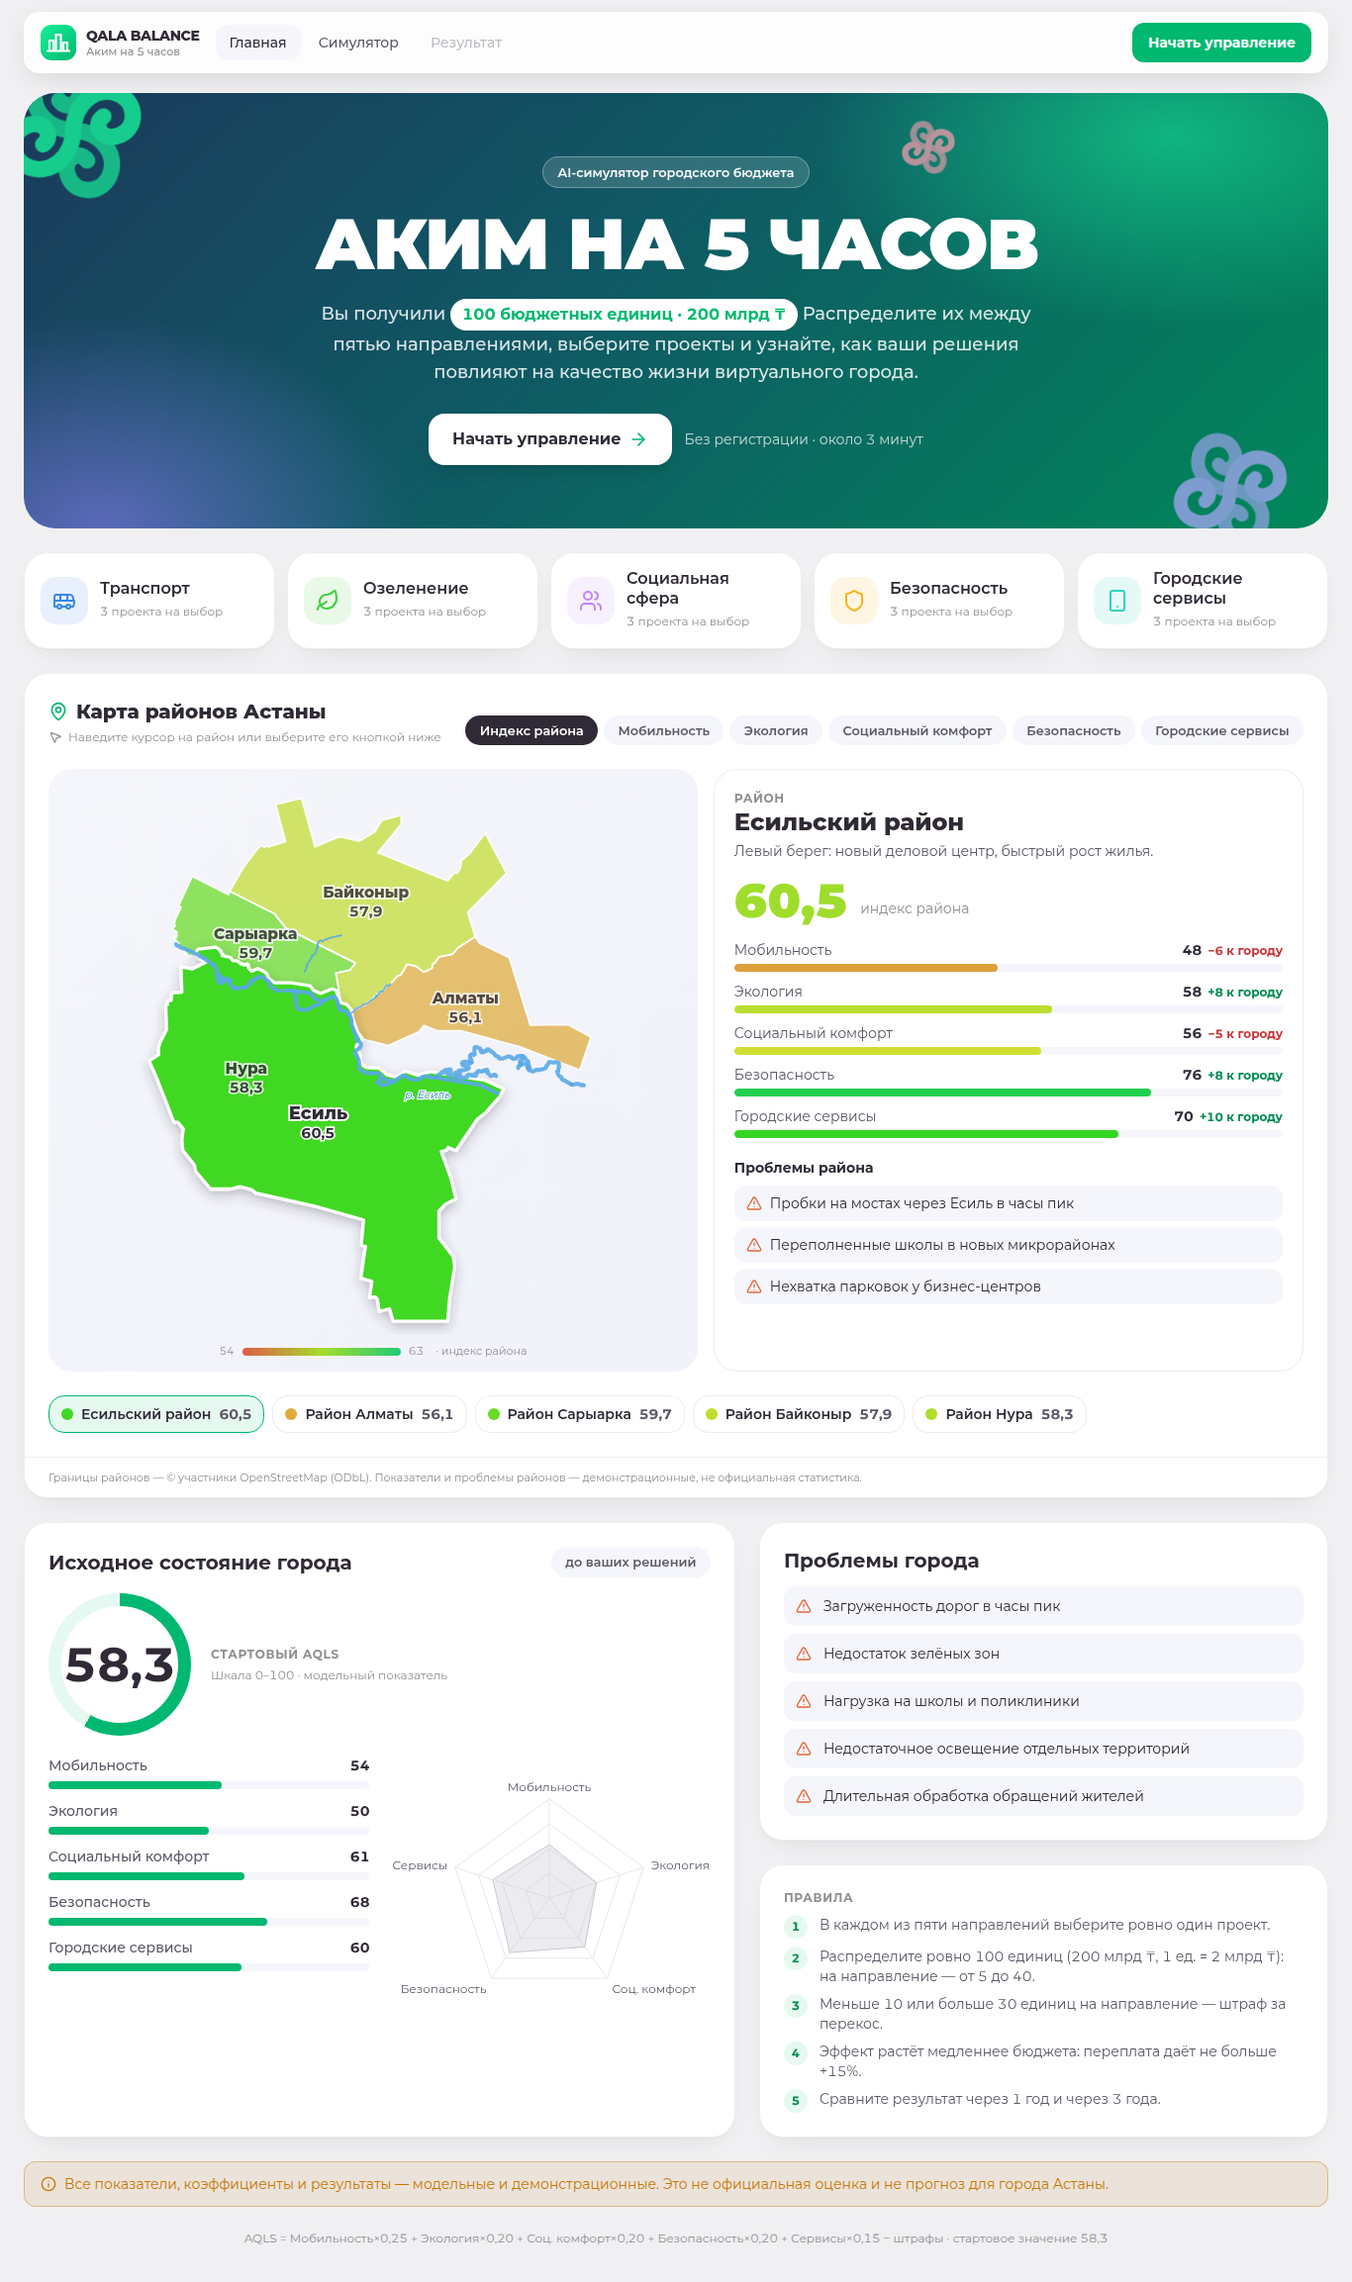
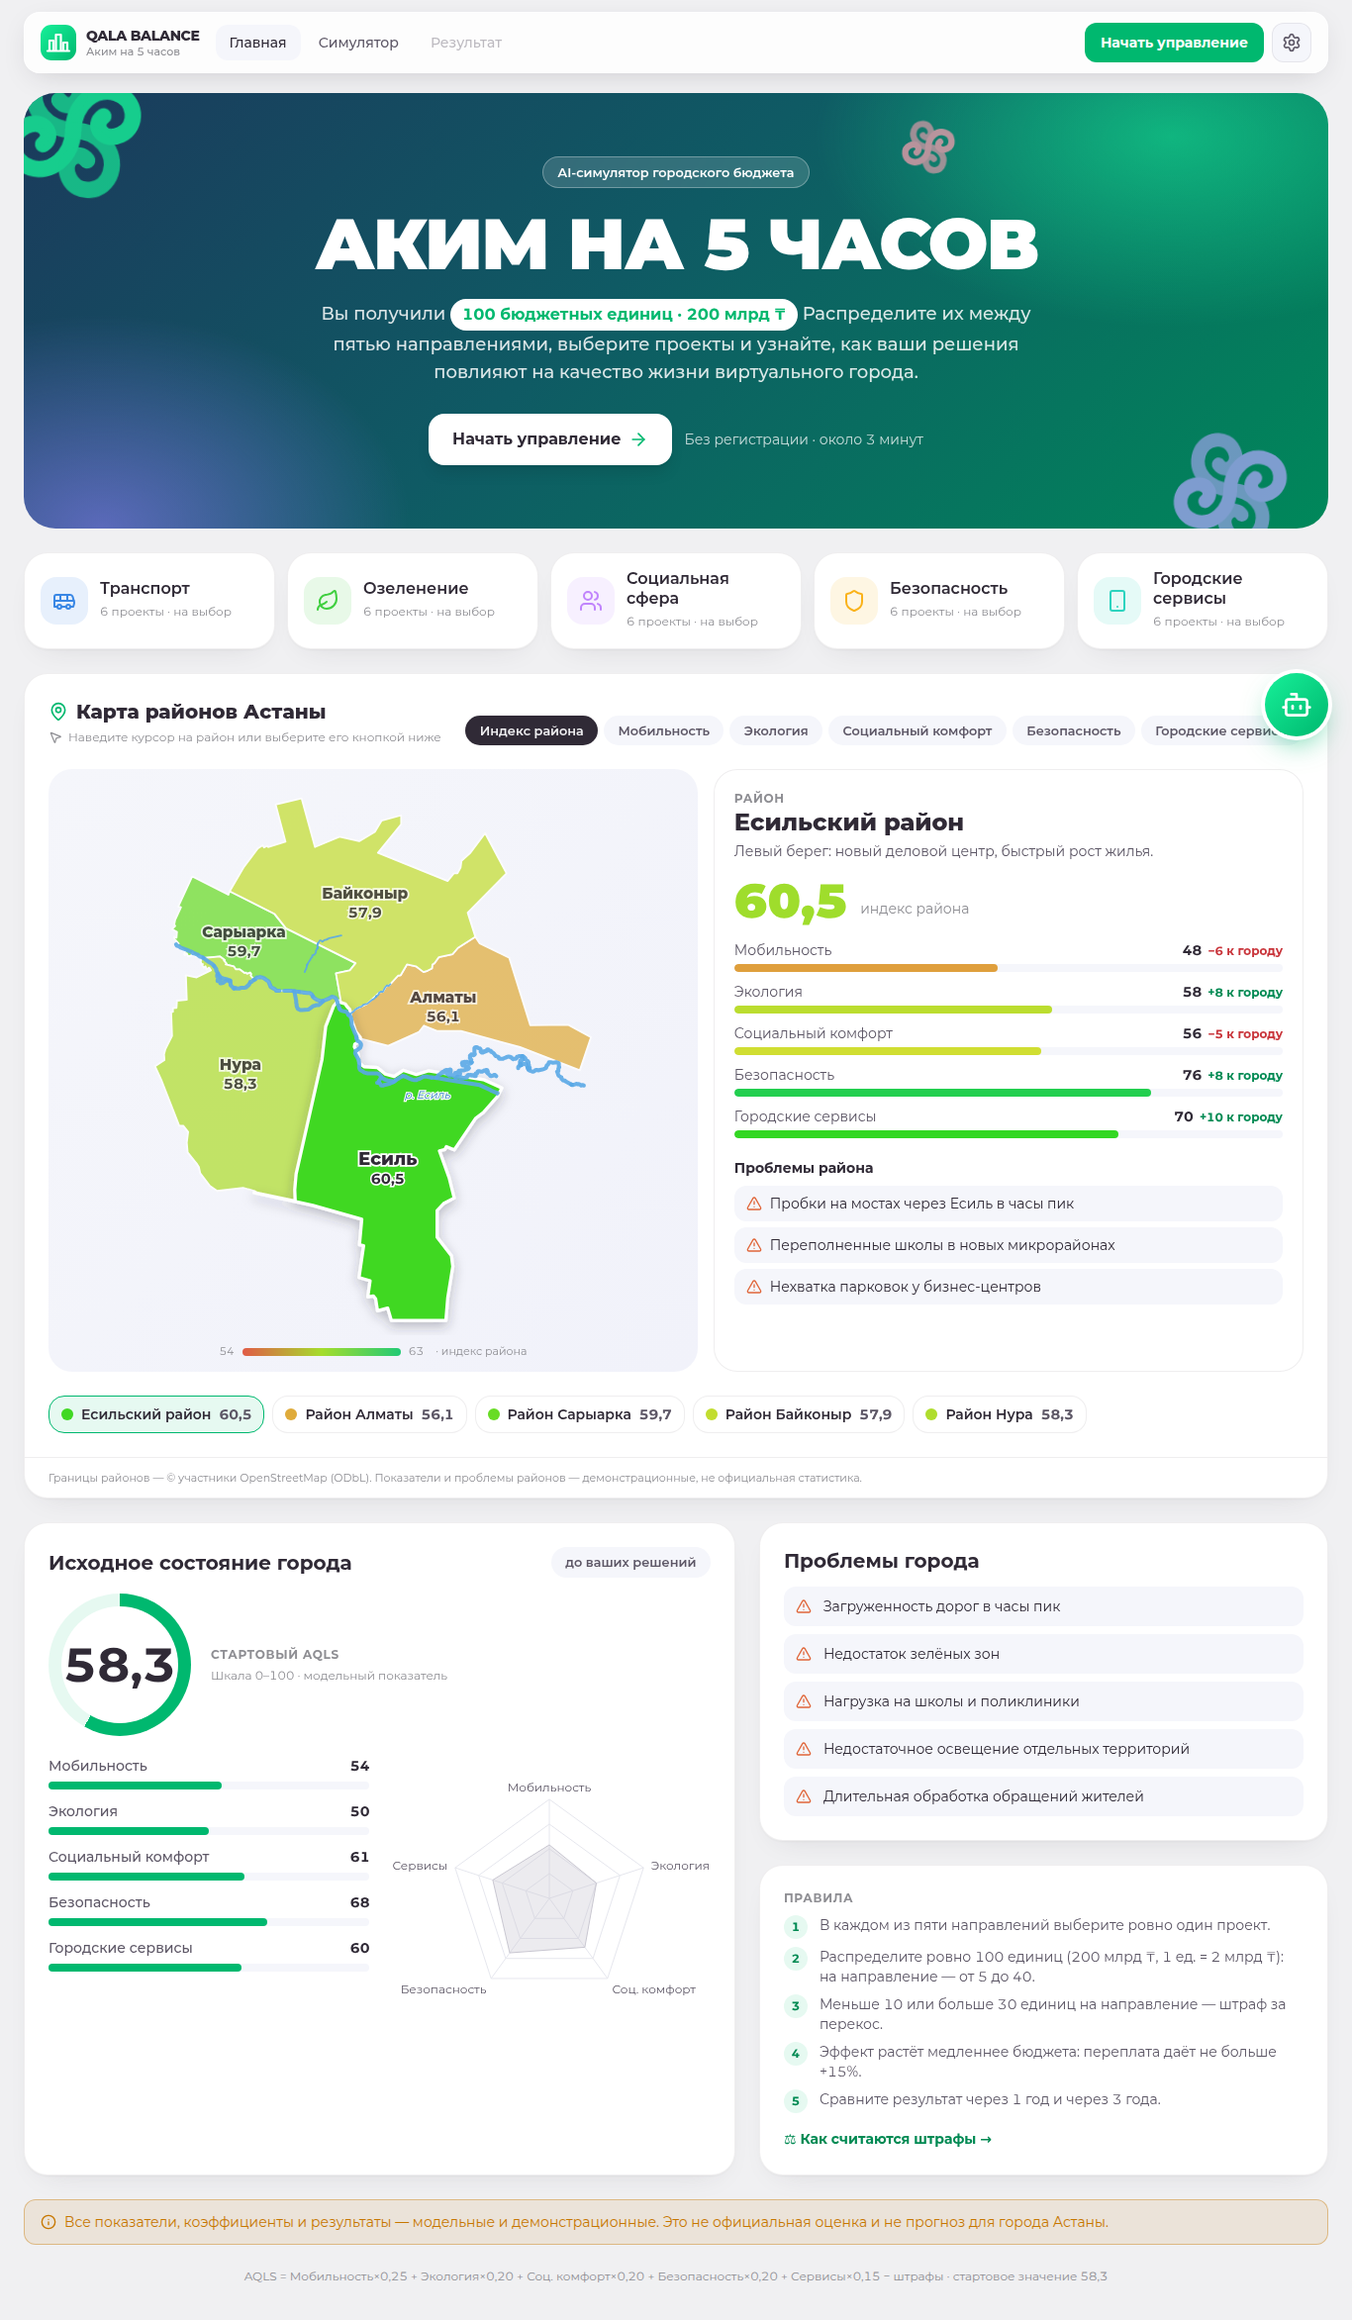
docs: README и скриншоты — помощник, обучение, штрафы, тёмная тема

diff --git a/README.md b/README.md
@@ -10,10 +10,15 @@
 
 ## Основные возможности
 
+- **AI-помощник** (кнопка в правом нижнем углу) — агент, который смотрит на ваши решения и предлагает действия с кнопкой «Применить»: выбрать проект для синергии, выровнять бюджет, перейти к незаполненной сфере, запустить симуляцию. Отвечает на вопросы («как снизить пробки?») через NVIDIA LLM (`POST /api/assist`), без ключа — по данным каталога.
+- **Обучение** — 8 шагов с подсветкой элементов интерфейса; запускается автоматически при первом входе в симулятор, повторяется из настроек или из помощника.
+- **Настройки** — светлая / тёмная / системная тема, русский / казахский интерфейс, статус AI-сервиса, сброс решений.
+- **Окно штрафов** — формулы штрафов модели и штрафы текущего решения по сферам + реальные штрафы по КоАП РК (ст. 505, 592, 597, 336, 434) в тенге по МРП 2026 = 4 325 ₸, со ссылками на официальные тексты.
+- **30 проектов и 10 синергий** — по 6 проектов в каждой сфере (15 из ТЗ + 15 дополнительных: ЛРТ, газификация частного сектора, набережная Есиля, теплосети, защита от паводков и др.).
 - **Интерактивная карта Астаны** — реальные границы пяти районов (Есиль, Алматы, Сарыарка, Байконыр, Нура) и река Есиль из OpenStreetMap. При наведении район приподнимается с анимацией и показывает индекс, пять показателей относительно города и характерные проблемы; слои карты переключаются по показателям. На экране результата карта показывает, как изменения распределились по районам.
 - **Бюджет в тенге** — 100 бюджетных единиц по условному курсу 1 ед. = 2 млрд ₸ (всего 200 млрд ₸); суммы в тенге показаны на карточках проектов, ползунках, в шапке и в результате.
 - **Стартовый экран** — правила, бюджет, исходное состояние города (AQLS 58, пять показателей, радар, проблемы города), предупреждение о демо-данных.
-- **Экран решений** — 5 сфер × 3 проекта (15 проектов). Карточка: описание, мин./рекомендуемый/макс. бюджет, эффекты, риски, скорость результата, обслуживание. Ползунки 5–40 ед., счётчики «распределено / осталось / превышение», живой прогноз AQLS и радар, диаграмма бюджета, понятные ошибки. Кнопка запуска заблокирована, пока распределение некорректно.
+- **Экран решений** — 5 сфер × 6 проектов. Карточка: описание, мин./рекомендуемый/макс. бюджет, эффекты, риски, скорость результата, обслуживание. Ползунки 5–40 ед., счётчики «распределено / осталось / превышение», живой прогноз AQLS и радар, диаграмма бюджета, понятные ошибки. Кнопка запуска заблокирована, пока распределение некорректно.
 - **Экран результата** — анимированный AQLS «до → после», таблица и столбцы по пяти показателям, переключатель **1 год / 3 года**, синергии и штрафы, профиль стратегии (алгоритмический), положительные эффекты и риски, AI-объяснение, рекомендация, реакции четырёх условных жителей.
 - **AI только объясняет.** `POST /api/explain` отправляет в LLM уже рассчитанные значения; ответ проверяется по JSON-схеме и на отсутствие выдуманных чисел. Если AI недоступен или ответ не прошёл проверку — мгновенно показывается шаблонное объяснение, экран результата никогда не блокируется.
 - **«Изменить решения»** сохраняет выбор (LocalStorage), **«Начать заново»** сбрасывает.
@@ -59,19 +64,22 @@ flowchart TD
 ```text
 frontend/src/
   pages/            StartPage, SimulatorPage, ResultPage
+  (components)      + TopBar, CityMap, Assistant, Tour, SettingsModal, PenaltiesModal, Modal
   components/       BudgetHeader, CategoryNavigation, ProjectCard, BudgetSlider,
                     ScoreGauge, ScoreRadarChart, BudgetChart, ResultComparison,
                     AiExplanation, CitizenReactionCard, StrategyProfile, ui
   data/             baseline.ts (исходные показатели, веса, курс ед. → ₸), projects.ts (каталог 15 проектов),
                     synergies.ts, fallbackTexts.ts (реакции жителей), categoryVisuals.ts,
-                    districts.ts (модельные данные районов), astanaMap.ts (геометрия из OSM)
+                    districts.ts (модельные данные районов), astanaMap.ts (геометрия из OSM),
+                    realFines.ts (штрафы КоАП РК, МРП 2026)
   lib/              calculateSimulation, calculateProjectEffect, calculateSynergies,
                     calculatePenalties, determineProfile, generateFallbackExplanation,
-                    districtProjection, buildAiPayload, explainApi, storage, *.test.ts
+                    districtProjection, advisor (советы помощника), i18n (ru/kk, тема),
+                    buildAiPayload, explainApi, storage, *.test.ts
   types/            project.ts, simulation.ts, ai.ts (Zod-схема ответа AI)
 backend/app/
   main.py           FastAPI-приложение
-  explain.py        POST /api/explain, GET /api/health, промпт, проверки, rate-limit
+  explain.py        POST /api/explain, POST /api/assist, GET /api/health, промпты, проверки, rate-limit
   llm.py            OpenAI-совместимый клиент (NVIDIA API Catalog / Brev)
 backend/tests_explain/   тесты API без сети
 docs/               tz.txt (ТЗ), screenshots/
@@ -170,14 +178,16 @@ npm run dev
 **Автотесты:**
 
 ```bash
-cd frontend && npm test            # 24 теста: движок, районы: формулы, синергии, штрафы, валидация, детерминизм
-cd backend && .venv/bin/python -m pytest   # 11 тестов API: схема, выдуманные числа, фолбэк, rate-limit, утечка ключа
+cd frontend && npm test            # 26 тестов: движок, районы, синергии, эффекты: формулы, синергии, штрафы, валидация, детерминизм
+cd backend && .venv/bin/python -m pytest   # 13 тестов API: схема, выдуманные числа, фолбэк, rate-limit, утечка ключа
 cd frontend && npm run build && npx oxlint src
 ```
 
 Проверка API вручную: `curl http://localhost:8000/api/health` → `{"status":"ok","llm":{"configured":…}}`.
 
 ## API
+
+`POST /api/assist` — вопрос AI-помощнику: `{"question": "…", "context": {"decisions": […], "allocated": 100}}` → `{"success": true, "answer": "…", "model": "…"}` или `{"success": false, "useFallback": true}` (тогда фронтенд отвечает по данным каталога).
 
 `POST /api/explain` — тело `{"simulationResult": {horizon, overallBefore, overallAfter, scoresBefore, scoresAfter, selectedProjects, synergies, penalties, strategyProfile}}` (формат п. 13.2 ТЗ).
 
@@ -189,6 +199,12 @@ cd frontend && npm run build && npx oxlint src
 ## Скриншоты
 
 ![Карта районов](docs/screenshots/map.png)
+
+| AI-помощник | Обучение |
+|---|---|
+| ![Помощник](docs/screenshots/assistant.png) | ![Обучение](docs/screenshots/tour.png) |
+| **Штрафы (КоАП РК)** | **Тёмная тема · қазақша** |
+| ![Штрафы](docs/screenshots/penalties.png) | ![Тёмная тема](docs/screenshots/dark-kk.png) |
 
 | Старт | Решения |
 |---|---|
@@ -202,4 +218,4 @@ cd frontend && npm run build && npx oxlint src
 
 ## Сторонние компоненты
 
-React, Vite, Tailwind CSS, Recharts, Zod, Lucide (MIT/ISC); FastAPI, Pydantic, Uvicorn, python-dotenv (MIT/BSD). LLM: модели NVIDIA API Catalog по их лицензиям. Границы районов и река — © участники OpenStreetMap, лицензия ODbL (данные получены через Nominatim/Overpass, упрощены). Каталог проектов, коэффициенты, показатели районов и тексты — синтетические, подготовлены командой по ТЗ.
+React, Vite, Tailwind CSS, Recharts, Zod, Lucide (MIT/ISC); FastAPI, Pydantic, Uvicorn, python-dotenv (MIT/BSD). LLM: модели NVIDIA API Catalog по их лицензиям. Штрафы — Кодекс РК об административных правонарушениях (https://adilet.zan.kz/rus/docs/K1400000235), МРП 2026 — Закон РК № 239-VIII «О республиканском бюджете на 2026–2028 годы» (https://adilet.zan.kz/rus/docs/Z2500000239). Границы районов и река — © участники OpenStreetMap, лицензия ODbL (данные получены через Nominatim/Overpass, упрощены). Каталог проектов, коэффициенты, показатели районов и тексты — синтетические, подготовлены командой по ТЗ.
